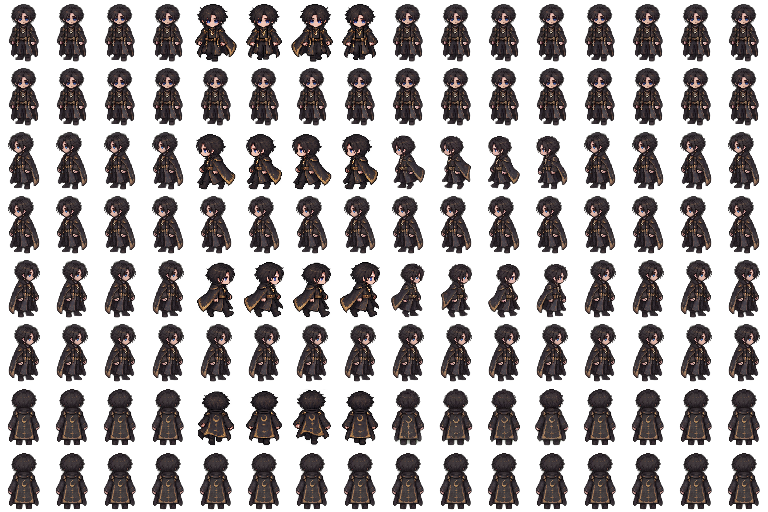
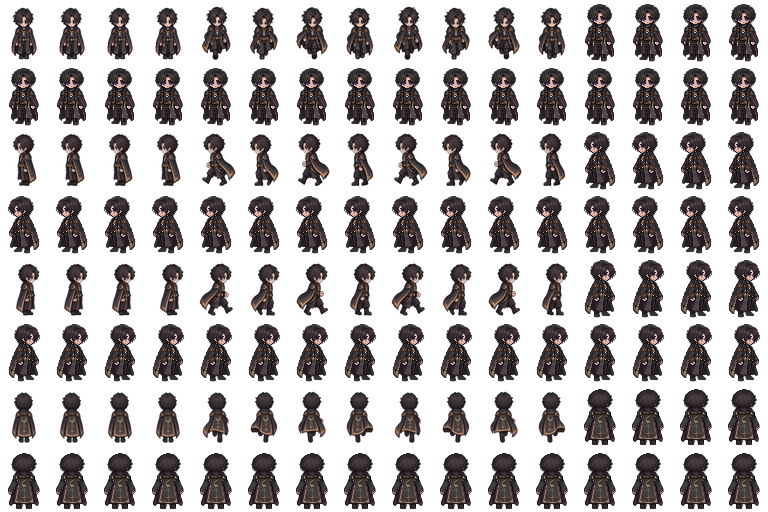
Peren: ativar caminhada v6 em quatro direções sem alterar ações e saves

diff --git a/phaser-demo-m1hf/demo-sw.js b/phaser-demo-m1hf/demo-sw.js
@@ -1,8 +1,8 @@
-const CACHE="peren-phaser-m1hf-preview-magic-ice-shards-v26-20261027";
+const CACHE="peren-phaser-m1hf-preview-infernal-v90-walk-v27-20261027";
 
 const CACHE_PREFIX="peren-phaser-m1hf-preview-";
 
-const FILES=["./art/characters/peren/battler/casting/manifest.json","./art/characters/peren/battler/casting/peren-casting-fire.png","./art/characters/peren/battler/casting/peren-casting-ice.png","./art/battle/runtime-v84/ice-shards-v26.png","./art/battle/runtime-v84/ice-shards-v26.json","./art/characters/peren/battler/casting/peren-casting-darkness.png","./","./art/battle/murin-battle.webp","./battle-art-runtime-v90.mjs","./art/characters/peren/atlas.json","./art/characters/peren/peren-atlas.png","./art/characters/peren/portrait-cast.png","./art/characters/peren/portrait-hurt.png","./art/characters/peren/portrait.png","./art/monsters/mob-ettercap/atlas.png","./art/monsters/mob-ettercap/meta.json","./art/monsters/mob-ettercap/portrait.png","./art/monsters/mob-fungo-violeta/atlas.png","./art/monsters/mob-fungo-violeta/meta.json","./art/monsters/mob-fungo-violeta/portrait.png","./art/monsters/mob-galho-infectado/atlas.png","./art/monsters/mob-galho-infectado/meta.json","./art/monsters/mob-galho-infectado/portrait.png","./art/regions/floresta-murin/bush.png","./art/regions/floresta-murin/exit.png","./art/regions/floresta-murin/ground-tiles.png","./art/regions/floresta-murin/herb.png","./art/regions/floresta-murin/mushroom.png","./art/regions/floresta-murin/rune.png","./art/regions/floresta-murin/stone.png","./art/regions/floresta-murin/tree-0.png","./art/regions/floresta-murin/tree-1.png","./art/regions/floresta-murin/tree-2.png","./art/regions/portomonte/visao-carcaca.webp","./art/vfx/arcane.png","./art/vfx/fire.png","./art/vfx/ice.png","./art-m1h/characters/peren/peren-atlas.png","./art-m1h/characters/peren/portrait-cast.png","./art-m1h/characters/peren/portrait-hurt.png","./art-m1h/characters/peren/portrait.png","./art-m1h/characters/peren/report.json","./art-m1hb/characters/peren/peren-atlas.png","./art-m1hb/characters/peren/portrait-cast.png","./art-m1hb/characters/peren/portrait-hurt.png","./art-m1hb/characters/peren/portrait.png","./art-m1hb/characters/peren/report.json","./art-m1hc/characters/peren/peren-atlas.png","./art-m1hc/characters/peren/portrait-cast.png","./art-m1hc/characters/peren/portrait-hurt.png","./art-m1hc/characters/peren/portrait.png","./art-m1hc/characters/peren/report.json","./art-m1hd/characters/peren/peren-atlas.png","./art-m1hd/characters/peren/portrait-cast.png","./art-m1hd/characters/peren/portrait-hurt.png","./art-m1hd/characters/peren/portrait.png","./art-m1hd/characters/peren/report.json","./art-m1he/monsters/mob-ettercap/atlas.png","./art-m1he/monsters/mob-ettercap/portrait.png","./art-m1he/monsters/mob-fungo-violeta/atlas.png","./art-m1he/monsters/mob-fungo-violeta/portrait.png","./art-m1he/monsters/mob-galho-infectado/atlas.png","./art-m1he/monsters/mob-galho-infectado/portrait.png","./art-m1he/monsters/report.json","./art-m1hf/kenney-monster-builder/arm_darkB.png","./art-m1hf/kenney-monster-builder/body_darkC.png","./art-m1hf/kenney-monster-builder/detail_dark_eye.png","./art-m1hf/kenney-monster-builder/leg_darkB.png","./art-m1hf/kenney-mushrooms/shroomRedMid.png","./art-m1hf/kenney-mushrooms/stemShroom.png","./art-m1hf/kenney-mushrooms/tallShroom_red.png","./art-m1hf/kenney-mushrooms/tinyShroom_red.png","./art-m1hf/kenney-platformer-spider/spider.png","./art-m1hf/kenney-platformer-spider/spider_dead.png","./art-m1hf/kenney-platformer-spider/spider_hit.png","./art-m1hf/kenney-platformer-spider/spider_walk1.png","./art-m1hf/kenney-platformer-spider/spider_walk2.png","./art-m1hf/monsters/mob-ettercap/atlas.png","./art-m1hf/monsters/mob-ettercap/portrait.png","./art-m1hf/monsters/mob-fungo-violeta/atlas.png","./art-m1hf/monsters/mob-fungo-violeta/portrait.png","./art-m1hf/monsters/mob-galho-infectado/atlas.png","./art-m1hf/monsters/mob-galho-infectado/portrait.png","./art-m1hf/monsters/report.json","./art-m1hf/oga-forest/forest_tiles.png","./asset-audition.html","./assets/game-B5Gp97dd.js","./assets/game-BTyR319X.css","./compare.html","./data/cidades.json","./data/itens.json","./data/magias.json","./data/monstros.json","./data/receitas.json","./field-gamepad-adapter.js","./field-gamepad.js","./icons/icon-192.png","./icons/icon-512.png","./index.html","./manifest.webmanifest","./review.html","./scenes/merchants/alina.svg","./scenes/merchants/jonathan.svg","./scenes/merchants/sofia.svg","./scenes/portomonte-market.svg","./scenes/portomonte-workshop.svg","./teste.html","./peren-arte.html","./art/characters/peren/official-v2/peren-portrait-official-128.png","./art/characters/peren/official-v2/peren-portrait-official-256.png","./art/characters/peren/official-v2/peren-actor-official-128.png","./art/characters/peren/official-v2/peren-atlas-official-48x64.png","./art/characters/peren/official-v2/runtime-provenance.json","./art/characters/peren/official-v3/peren-atlas-official-48x64.png","./art/characters/peren/official-v3/peren-caminhada-3x4-original-160x190.png","./art/characters/peren/official-v3/runtime-provenance.json","./art/characters/peren/peren-wounded-atlas.png","./art/characters/peren/official-v4/peren-wounded-atlas.png","./art/characters/peren/official-v4/peren-ferido-3x4-original-160x190.png","./art/characters/peren/official-v4/runtime-provenance.json","./art-m1h/characters/peren/peren-wounded-atlas.png","./art-m1hb/characters/peren/peren-wounded-atlas.png","./art-m1hc/characters/peren/peren-wounded-atlas.png","./art-m1hd/characters/peren/peren-wounded-atlas.png","./art/characters/peren/peren-herb-atlas.png","./art/characters/peren/official-v5/peren-atlas-normal-walkfix-v5.png","./art/characters/peren/official-v5/peren-atlas-herb-v5.png","./art/characters/peren/official-v5/source-walkfix-3x4.png","./art/characters/peren/official-v5/source-herb-gather-4x4.png","./art/characters/peren/official-v5/runtime-provenance.json","./art-m1h/characters/peren/peren-herb-atlas.png","./art-m1hb/characters/peren/peren-herb-atlas.png","./art-m1hc/characters/peren/peren-herb-atlas.png","./art-m1hd/characters/peren/peren-herb-atlas.png","./art/battle/runtime-v84/battle-asset-pack-v90.json","./art/battle/runtime-v84/idle.png","./art/battle/runtime-v84/infernal-v90.png","./art/battle/runtime-v84/sparks-v10.png","./art/battle/runtime-v84/sparks-v10.json","./art/battle/runtime-v84/flame-v10.png","./art/battle/runtime-v84/flame-v10.json","./art/battle/runtime-v84/embers-v11.png","./art/battle/runtime-v84/embers-v11.json","./art/battle/runtime-v84/pupil-v11.png","./art/battle/runtime-v84/pupil-v11.json","./art/battle/runtime-v84/ring-v12.png","./art/battle/runtime-v84/ring-v12.json","./art/battle/runtime-v84/burst-v13.png","./art/battle/runtime-v84/burst-v13.json","./art/battle/runtime-v84/blaze-v14.png","./art/battle/runtime-v84/blaze-v14.json","./art/battle/runtime-v84/smoke-v15.png","./art/battle/runtime-v84/smoke-v15.json","./art/battle/runtime-v84/hellskull-v16.png","./art/battle/runtime-v84/hellskull-v16.json","./art/battle/runtime-v84/skullcloud-v17.png","./art/battle/runtime-v84/skullcloud-v17.json","./art/battle/runtime-v84/void.png","./art/battle/runtime-v84/summon.png","./art/battle/runtime-v84/portrait_01.png","./art/battle/runtime-v84/portrait_02.png","./art/battle/runtime-v84/portrait_03.png","./art/battle/runtime-v84/portrait_04.png"];
+const FILES=["./art/characters/peren/official-v6/manifest.json","./art/characters/peren/official-v6/peren-walk-4-directions-5frames-224x260.png","./art/characters/peren/battler/casting/manifest.json","./art/characters/peren/battler/casting/peren-casting-fire.png","./art/characters/peren/battler/casting/peren-casting-ice.png","./art/battle/runtime-v84/ice-shards-v26.png","./art/battle/runtime-v84/ice-shards-v26.json","./art/characters/peren/battler/casting/peren-casting-darkness.png","./","./art/battle/murin-battle.webp","./battle-art-runtime-v90.mjs","./art/characters/peren/atlas.json","./art/characters/peren/peren-atlas.png","./art/characters/peren/portrait-cast.png","./art/characters/peren/portrait-hurt.png","./art/characters/peren/portrait.png","./art/monsters/mob-ettercap/atlas.png","./art/monsters/mob-ettercap/meta.json","./art/monsters/mob-ettercap/portrait.png","./art/monsters/mob-fungo-violeta/atlas.png","./art/monsters/mob-fungo-violeta/meta.json","./art/monsters/mob-fungo-violeta/portrait.png","./art/monsters/mob-galho-infectado/atlas.png","./art/monsters/mob-galho-infectado/meta.json","./art/monsters/mob-galho-infectado/portrait.png","./art/regions/floresta-murin/bush.png","./art/regions/floresta-murin/exit.png","./art/regions/floresta-murin/ground-tiles.png","./art/regions/floresta-murin/herb.png","./art/regions/floresta-murin/mushroom.png","./art/regions/floresta-murin/rune.png","./art/regions/floresta-murin/stone.png","./art/regions/floresta-murin/tree-0.png","./art/regions/floresta-murin/tree-1.png","./art/regions/floresta-murin/tree-2.png","./art/regions/portomonte/visao-carcaca.webp","./art/vfx/arcane.png","./art/vfx/fire.png","./art/vfx/ice.png","./art-m1h/characters/peren/peren-atlas.png","./art-m1h/characters/peren/portrait-cast.png","./art-m1h/characters/peren/portrait-hurt.png","./art-m1h/characters/peren/portrait.png","./art-m1h/characters/peren/report.json","./art-m1hb/characters/peren/peren-atlas.png","./art-m1hb/characters/peren/portrait-cast.png","./art-m1hb/characters/peren/portrait-hurt.png","./art-m1hb/characters/peren/portrait.png","./art-m1hb/characters/peren/report.json","./art-m1hc/characters/peren/peren-atlas.png","./art-m1hc/characters/peren/portrait-cast.png","./art-m1hc/characters/peren/portrait-hurt.png","./art-m1hc/characters/peren/portrait.png","./art-m1hc/characters/peren/report.json","./art-m1hd/characters/peren/peren-atlas.png","./art-m1hd/characters/peren/portrait-cast.png","./art-m1hd/characters/peren/portrait-hurt.png","./art-m1hd/characters/peren/portrait.png","./art-m1hd/characters/peren/report.json","./art-m1he/monsters/mob-ettercap/atlas.png","./art-m1he/monsters/mob-ettercap/portrait.png","./art-m1he/monsters/mob-fungo-violeta/atlas.png","./art-m1he/monsters/mob-fungo-violeta/portrait.png","./art-m1he/monsters/mob-galho-infectado/atlas.png","./art-m1he/monsters/mob-galho-infectado/portrait.png","./art-m1he/monsters/report.json","./art-m1hf/kenney-monster-builder/arm_darkB.png","./art-m1hf/kenney-monster-builder/body_darkC.png","./art-m1hf/kenney-monster-builder/detail_dark_eye.png","./art-m1hf/kenney-monster-builder/leg_darkB.png","./art-m1hf/kenney-mushrooms/shroomRedMid.png","./art-m1hf/kenney-mushrooms/stemShroom.png","./art-m1hf/kenney-mushrooms/tallShroom_red.png","./art-m1hf/kenney-mushrooms/tinyShroom_red.png","./art-m1hf/kenney-platformer-spider/spider.png","./art-m1hf/kenney-platformer-spider/spider_dead.png","./art-m1hf/kenney-platformer-spider/spider_hit.png","./art-m1hf/kenney-platformer-spider/spider_walk1.png","./art-m1hf/kenney-platformer-spider/spider_walk2.png","./art-m1hf/monsters/mob-ettercap/atlas.png","./art-m1hf/monsters/mob-ettercap/portrait.png","./art-m1hf/monsters/mob-fungo-violeta/atlas.png","./art-m1hf/monsters/mob-fungo-violeta/portrait.png","./art-m1hf/monsters/mob-galho-infectado/atlas.png","./art-m1hf/monsters/mob-galho-infectado/portrait.png","./art-m1hf/monsters/report.json","./art-m1hf/oga-forest/forest_tiles.png","./asset-audition.html","./assets/game-B5Gp97dd.js","./assets/game-BTyR319X.css","./compare.html","./data/cidades.json","./data/itens.json","./data/magias.json","./data/monstros.json","./data/receitas.json","./field-gamepad-adapter.js","./field-gamepad.js","./icons/icon-192.png","./icons/icon-512.png","./index.html","./manifest.webmanifest","./review.html","./scenes/merchants/alina.svg","./scenes/merchants/jonathan.svg","./scenes/merchants/sofia.svg","./scenes/portomonte-market.svg","./scenes/portomonte-workshop.svg","./teste.html","./peren-arte.html","./art/characters/peren/official-v2/peren-portrait-official-128.png","./art/characters/peren/official-v2/peren-portrait-official-256.png","./art/characters/peren/official-v2/peren-actor-official-128.png","./art/characters/peren/official-v2/peren-atlas-official-48x64.png","./art/characters/peren/official-v2/runtime-provenance.json","./art/characters/peren/official-v3/peren-atlas-official-48x64.png","./art/characters/peren/official-v3/peren-caminhada-3x4-original-160x190.png","./art/characters/peren/official-v3/runtime-provenance.json","./art/characters/peren/peren-wounded-atlas.png","./art/characters/peren/official-v4/peren-wounded-atlas.png","./art/characters/peren/official-v4/peren-ferido-3x4-original-160x190.png","./art/characters/peren/official-v4/runtime-provenance.json","./art-m1h/characters/peren/peren-wounded-atlas.png","./art-m1hb/characters/peren/peren-wounded-atlas.png","./art-m1hc/characters/peren/peren-wounded-atlas.png","./art-m1hd/characters/peren/peren-wounded-atlas.png","./art/characters/peren/peren-herb-atlas.png","./art/characters/peren/official-v5/peren-atlas-normal-walkfix-v5.png","./art/characters/peren/official-v5/peren-atlas-herb-v5.png","./art/characters/peren/official-v5/source-walkfix-3x4.png","./art/characters/peren/official-v5/source-herb-gather-4x4.png","./art/characters/peren/official-v5/runtime-provenance.json","./art-m1h/characters/peren/peren-herb-atlas.png","./art-m1hb/characters/peren/peren-herb-atlas.png","./art-m1hc/characters/peren/peren-herb-atlas.png","./art-m1hd/characters/peren/peren-herb-atlas.png","./art/battle/runtime-v84/battle-asset-pack-v90.json","./art/battle/runtime-v84/idle.png","./art/battle/runtime-v84/infernal-v90.png","./art/battle/runtime-v84/sparks-v10.png","./art/battle/runtime-v84/sparks-v10.json","./art/battle/runtime-v84/flame-v10.png","./art/battle/runtime-v84/flame-v10.json","./art/battle/runtime-v84/embers-v11.png","./art/battle/runtime-v84/embers-v11.json","./art/battle/runtime-v84/pupil-v11.png","./art/battle/runtime-v84/pupil-v11.json","./art/battle/runtime-v84/ring-v12.png","./art/battle/runtime-v84/ring-v12.json","./art/battle/runtime-v84/burst-v13.png","./art/battle/runtime-v84/burst-v13.json","./art/battle/runtime-v84/blaze-v14.png","./art/battle/runtime-v84/blaze-v14.json","./art/battle/runtime-v84/smoke-v15.png","./art/battle/runtime-v84/smoke-v15.json","./art/battle/runtime-v84/hellskull-v16.png","./art/battle/runtime-v84/hellskull-v16.json","./art/battle/runtime-v84/skullcloud-v17.png","./art/battle/runtime-v84/skullcloud-v17.json","./art/battle/runtime-v84/void.png","./art/battle/runtime-v84/summon.png","./art/battle/runtime-v84/portrait_01.png","./art/battle/runtime-v84/portrait_02.png","./art/battle/runtime-v84/portrait_03.png","./art/battle/runtime-v84/portrait_04.png"];
 
 self.addEventListener('install',event=>{event.waitUntil(caches.open(CACHE).then(cache=>cache.addAll(FILES)).then(()=>self.skipWaiting()))});
 
